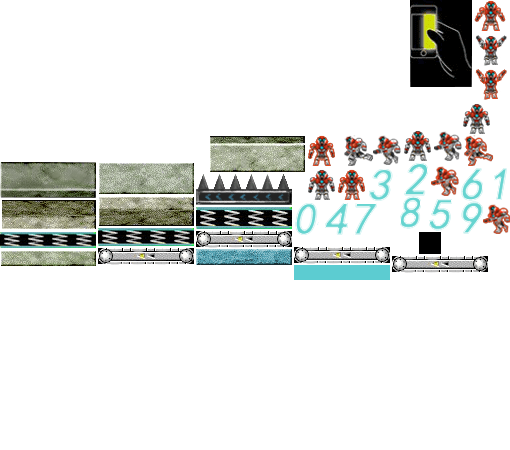
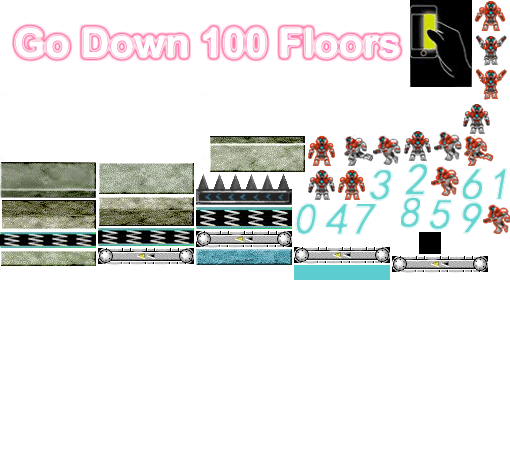
update images

Changed region(s): [[0.0, 0.0311, 0.7941, 0.1556]]

diff --git a/launcher/game-min.js b/launcher/game-min.js
@@ -7018,7 +7018,7 @@ var __extends = this.__extends || function(d, c) {
             this.bestValueText.text = best + "\u5c42";
             this.scoreValueText.text = blayer + "\u5c42";
             this.onPostComplete(this);
-            var play68ShareData = "我在#是男人就下100层#一鼓作气下了" + GameApp.currentFloors +"层,\u83b7\u5f97\u79f0\u53f7: \u3010" + c.getTitle(blayer) + "\u3011";
+            var play68ShareData = "我在#是男人就下100层#一鼓作气下了" + GameApp.currentFloors +"Floors,\u83b7\u5f97\u79f0\u53f7: \u3010" + c.getTitle(blayer) + "\u3011";
             // updateShare(play68ShareData);
 			// Play68.setRankingScoreDesc(GameApp.currentFloors);
 		};
@@ -7186,7 +7186,7 @@ var __extends = this.__extends || function(d, c) {
 			this.endLayer.graphics.endFill();
 			this.addChild(this.endLayer);
 			var b = new egret.TextField;
-			b.text = "游戏结束";
+			b.text = "Game Over";
 			b.textColor = 15724527;
 			b.bold = !0;
 			b.size = 48;
@@ -7197,7 +7197,7 @@ var __extends = this.__extends || function(d, c) {
 			b.y = 80;
 			this.endLayer.addChild(b);
 			b = new egret.TextField;
-			b.text = "最高分";
+			b.text = "Max Score";
 			b.textColor = 16681509;
 			b.bold = !0;
 			b.size = 36;
@@ -7220,7 +7220,7 @@ var __extends = this.__extends || function(d, c) {
 			this.bestValueText.y = b.y + b.height + 5;
 			this.endLayer.addChild(this.bestValueText);
 			b = new egret.TextField;
-			b.text = "分数";
+			b.text = "Score";
 			b.textColor = 16681509;
 			b.bold = !0;
 			b.size = 36;
